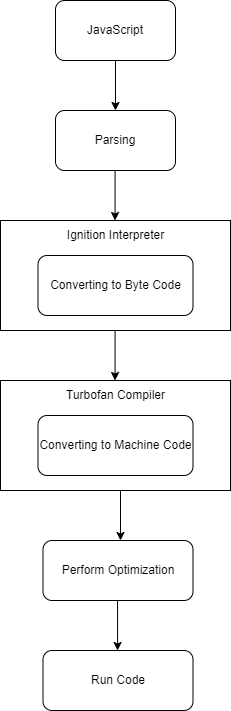
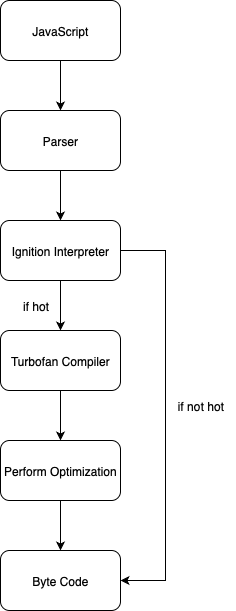
update: v8 jit 포스트 업데이트

diff --git a/_posts/2025-07-15-v8-engine-operation-principle.md b/_posts/2025-07-15-v8-engine-operation-principle.md
@@ -1,0 +1,61 @@
+---
+layout: post
+title:  "v8!, 넌 도대체 뭐니?"
+author: "SeungYong Lee"
+categories: [principle]
+tags: [v8]
+image: assets/images/Who-are-you!.gif
+---
+여러분, 안녕하세요!
+
+최근 Google의 ASAN(Address Sanitizer)에 관한 심도 있는 기술 문서를 접한 이후, 브라우저 보안의 구조적 취약점과 관련한 학문적 관심이 한층 더 깊어졌습니다. 이 글에서는 자바스크립트 및 웹 어셈블리 엔진인 V8에 대한 기술적 배경과 그 구조를 정리하고, 향후 V8 기반의 1-day 취약점 분석을 위한 사전 이해로 활용될 수 있도록 내용을 체계적으로 서술하고자 합니다.
+
+본격적인 기술 분석에 앞서, "V8"이라는 명칭 자체가 가지는 기원에 대해 흥미를 가졌고, 이에 대한 소소한 고찰로 글을 시작하려 합니다.일반적으로 "V8"이라는 단어는 자동차 공학 분야에서 8기통 엔진을 지칭하는 용어로 널리 사용됩니다. V형으로 배열된 8개의 실린더가 피스톤의 왕복 운동을 통해 강력한 동력을 생성하는 이 엔진은, 4000cc 이상의 고배기량을 바탕으로 탁월한 퍼포먼스를 자랑하기때문에 머슬카나 고성능 스포츠카, 대형 SUV 등에서 널리 채택되고 있으며, 연료 효율보다는 출력 성능이 강조되어 "기름 먹는 하마" 라는 별칭을 가지고 있기도합니다.
+
+"8기통은 미국이 태생이다" 라고 많은 사람들이 오해를 하고 있지만, V8 엔진이 미국에서 처음 고안된 것은 아닙니다. 자원이 풍부한 미국은 8기통을 세계 최초로 양산을 시작한 나라일 뿐, 기술적 기원은 1901년 프랑스의 한 공학자 Léon Levavasseur로 거슬러올라갑니다. 그는 항공기에 사용할 엔진을 설계하면서 직렬 4기통의 기통 수를 6개로 늘리려는 기술적 한계를 극복하기 위해 많은 시행착오를 겪었습니다. 하지만 그가 고안해낸 방법으로는 크랭크 축이 길어져 엔진이 원활하게 작동 하지 않자 그는 깊은 고민에 빠져 고뇌하였습니다. 
+
+시간이 흐른 뒤, 그는 직렬 4기통 2개를 결합하는 방법을 고안해내어 합쳐보는 시도를 하였고 이후 원활하게 동작하는 것을 확인하며, 현대적인 의미의 V8 구조가 처음으로 세상에 등장하게 되었습니다.
+
+이처럼 강력한 힘을 자랑하며 기술적 완성도를 상징하는 8기통 엔진에서 영감을 받아 Google은 자사의 차세대 자바스크립트엔진 프로젝트에 "V8"이라는 명칭을 부여했습니다.
+
+2006년 가을 "Lars Bak"이 Google과의 인연을 시작함으로써 그를 중심으로 한 소수의 엔지니어들이 덴마크의 한 농가 별채에서 V8 개발을 수행했습니다.
+
+V8은 개발 중에는 Google의 내부 비밀 프로젝트로써 비공개 CVS(Concurrent Versions System) 저장소에서 개발되었습니다. 하지만 2008년 9월 2일, Google Chrome의 공식 출시와 함께 V8 역시 오픈소스로 전환되어 전 세계 개발자들에게 공개되었습니다.
+
+기술적으로 V8은 자바스크립트 코드의 실행 속도를 극대화하는 데 초점을 맞춰 C++ 로 개발되었으며, JIT(Just In Time) 컴파일러를 채택했습니다. 
+
+JIT 덕분에 실행 시점에 자바스크립트 코드를 기계어로 변환함으로써 성능을 극적으로 향상시킬 수 있는 구조적 장점을 가졌지만 C/C++계열 특성상 Coder가 메모리를 수동으로 관리해줘야 하기 때문에 해커들은 그들의 실수의 틈을 찾아내고 이로 인해 발생하는 Memory Curruption은 종종 보안 취약점으로 이어졌습니다.
+
+실제로 미국 백악관에서는 메모리 안정성 이슈를 해소하기 위해 Rust와 같은 메모리 안전 언어 도입을 권고하기도 했습니다.
+
+V8의 실행 구조는 다음과 같은 다단계로 구성됩니다.
+
+<p align="center">
+    <img src="../assets/images/v8_jit.png">
+</p>
+
+<b>Parsing</b> <br>
+우선 런-타임(Run-Time) 시점에 자바스크립트 소스코드는 Parser에 의해 AST(Abstract Syntax Tree)로 변환됩니다. 이는 프로그램의 구조를 트리 형태로 표현한 중간 표현이라고 생각하시면 됩니다.
+
+<b>Ignition Interpreter</b> <br>
+AST를 바탕으로 바이트코드를 생성하는 인터프리터입니다. 이 단계는 빠른 초기 실행을 위한 경량화된 인터프리터이며, 중복된 코드가 반복 실행되면 "hot" 패턴으로 인식되는데 그럼, Turbofan Compiler에서 추가적인 처리가 이루어집니다.
+
+<b>Turbofan Compiler</b> <br>
+Ignition Interpreter에서 생성된 바이트코드를 바탕으로 SSA(Static Single Assignment) 기반 최적화와 함께 기계어로 컴파일합니다. 이 컴파일러는 인라인 캐싱(Inline Caching), 히든 클래스(Hidden Class), 불필요한 연산 제거 등 고급 최적화 기법을 적용하여 퍼포먼스를 향상시킵니다.
+
+<b>Perform Optimization</b> <br>
+컴파일된 기계어는 캐시에 저장되어, 동일한 코드가 반복될 경우 재컴파일 없이 즉시 실행될 수 있도록 합니다.
+
+<b>Byte Code</b> <br>
+생성된 바이트코드를 실제 프로세서에서 실행됩니다.
+
+즉, V8의 JIT 컴파일러는 기존 인터프리터 방식의 단점—반복된 명령어 실행 시 매번 동일한 해석이 필요한 비효율성을 보완하여, 실시간으로 컴파일된 기계어를 재활용함으로써 구조적 성능을 비약적으로 향상시킵니다. 이러한 다단계 실행 파이프라인은 자바스크립트 실행 환경의 실질적인 속도 개선뿐만 아니라, 현대 웹 애플리케이션에서 요구하는 높은 반응성과 복잡도 처리를 가능하게 만든 핵심 요소라고 생각합니다.
+
+다음 글에서는 이러한 V8 구조를 기반으로 한 최근의 1-day 취약점 사례—예를 들어 CVE-2023-2033를 중심으로, JIT 최적화 과정에서 발생 가능한 보안 취약점의 원인과 공격 벡터에 대해 분석해보고자 합니다.
+
+### [ Reference ]
+- https://blog.bitsrc.io/secret-behind-javascript-performance-v8-hidden-classes-ba4d0ebfb89d
+- https://ko.wikipedia.org/wiki/V8_%EC%97%94%EC%A7%84
+- https://oldmachinepress.com/2016/05/28/antoinette-levavasseur-aircraft-engines/
+- https://rnfltpgus.github.io/knowledge/v8-engine/
+- https://jaehyeon48.github.io/javascript/google-v8-engine/
